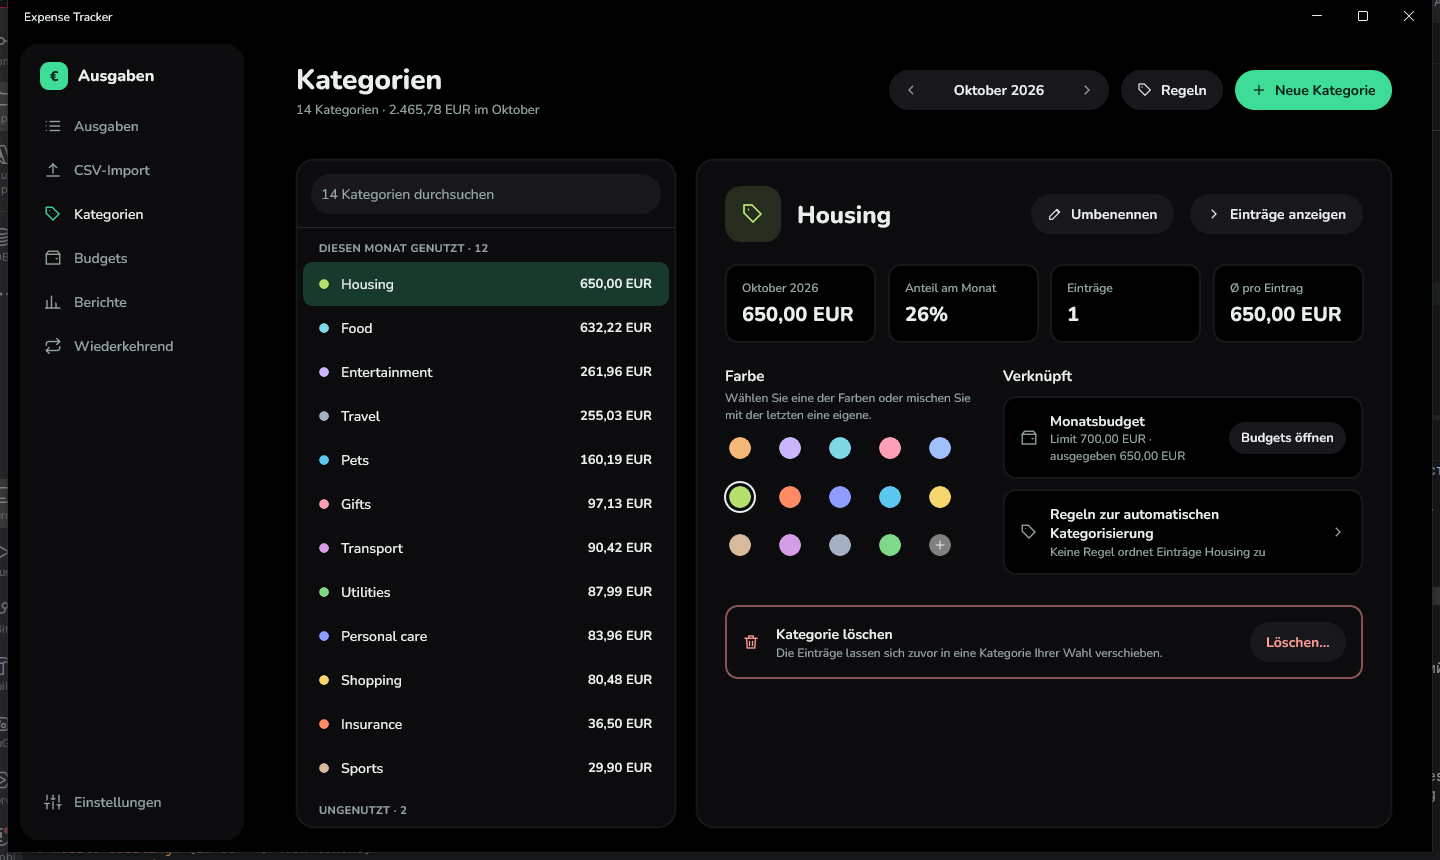
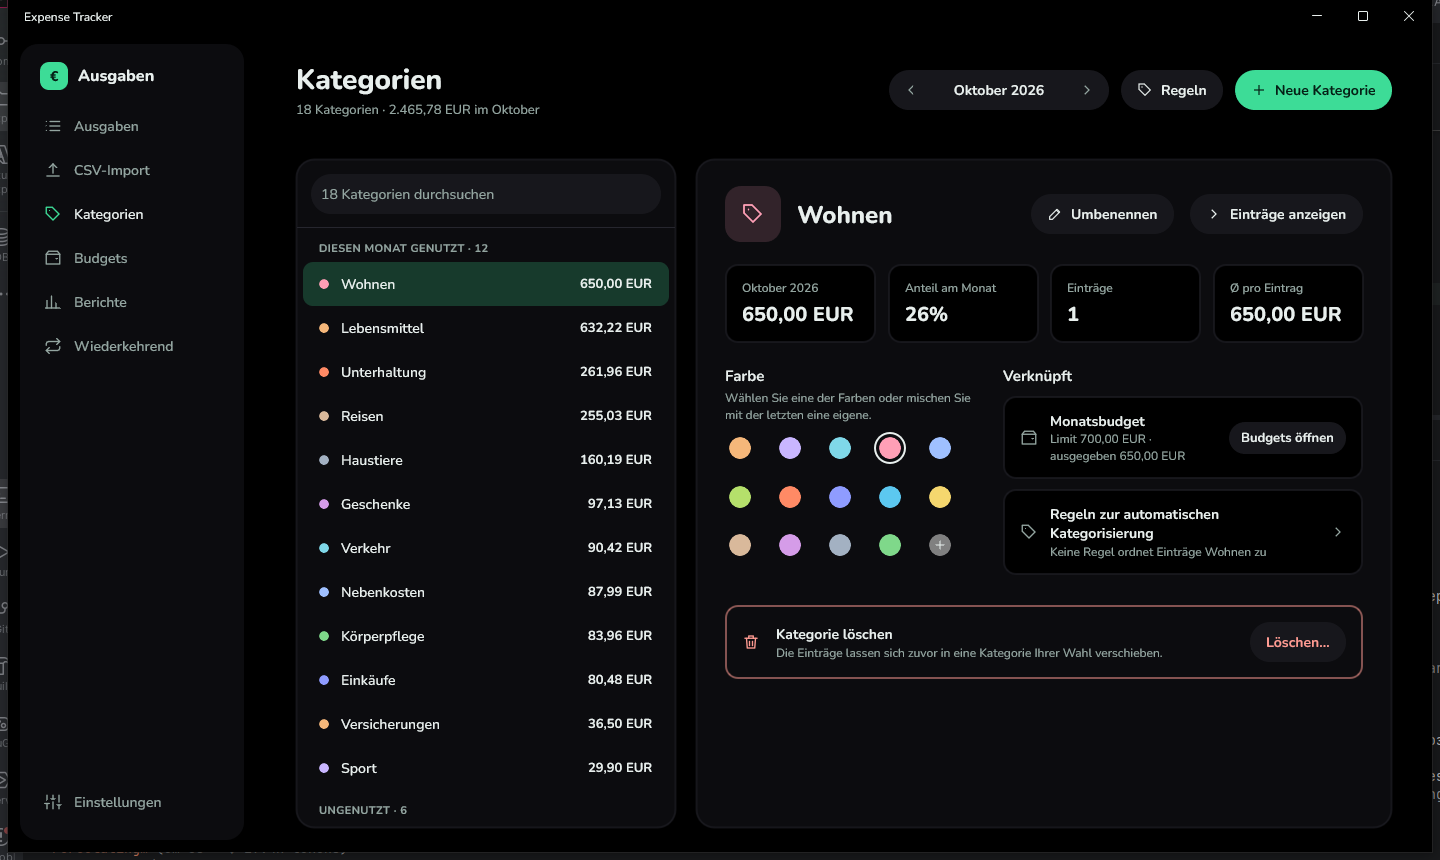
docs: standard categories, and a new categories screenshot

diff --git a/docs/de/BENUTZERHANDBUCH.md b/docs/de/BENUTZERHANDBUCH.md
@@ -114,6 +114,12 @@ Kleinschreibung spielt keine Rolle. Passen mehrere Regeln, gewinnt der längste 
 
 ![Kategorien](../images/de/categories.png)
 
+Eine neue Datenbank beginnt mit 18 Standardkategorien (Lebensmittel, Restaurants, Verkehr, Wohnen, Nebenkosten,
+Gesundheit, Unterhaltung, Einkäufe, Kleidung, Bildung, Reisen, Geschenke, Haustiere, Körperpflege, Versicherungen,
+Sport, Abos, Sonstiges). Sie tragen Namen in der Sprache der Bildschirme, und beim Wechsel der Sprache in den
+Einstellungen werden die, die noch ihren Standardnamen tragen, mit umbenannt (eine selbst umbenannte Kategorie bleibt
+unverändert). Sie lassen sich wie jede andere umbenennen, umfärben oder löschen.
+
 Der Bildschirm hat zwei Teile. Links steht eine kompakte Liste mit Suchfeld: zuerst Kategorien mit Ausgaben im
 Monat (größte zuerst), danach die ungenutzten. Die Pfeile oder ein Klick auf den Monat oben wechseln den Monat.
 Rechts steht alles zur gewählten Kategorie.

diff --git a/docs/en/USER_GUIDE.md b/docs/en/USER_GUIDE.md
@@ -104,6 +104,12 @@ text wins.
 
 ![Categories](../images/en/categories.png)
 
+A new database starts with 18 standard categories (Food, Restaurants, Transport, Housing, Utilities, Health,
+Entertainment, Shopping, Clothing, Education, Travel, Gifts, Pets, Personal care, Insurance, Sports, Subscriptions,
+Other). They are named in the language of the screens, and when you change the language in Settings, the ones that
+still carry their standard name are renamed too (a category you renamed yourself is left alone). You can rename,
+recolor or delete them like any other.
+
 The screen has two parts. On the left is a compact list with a search field: categories with spending in the
 month first (largest first), then the unused ones. Arrows or a click on the month at the top change the month. On
 the right is everything about the category you chose.
